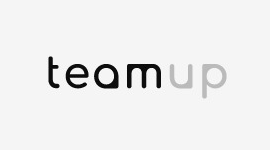
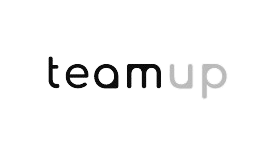
del files

diff --git a/src/components/ProfileCard.js b/src/components/ProfileCard.js
@@ -1,5 +1,5 @@
 import React, { useState, useEffect } from 'react';
-import { useParams } from 'react-router-dom';
+import { useParams, useHistory } from 'react-router-dom';
 import { useSelector, useDispatch } from 'react-redux';
 import ProfileImageWithDefault from './ProfileImageWithDefault';
 import { useTranslation } from 'react-i18next';
@@ -7,7 +7,7 @@ import Input from './Input';
 import { updateUser, deleteUser } from '../api/apiCalls';
 import { useApiProgress } from '../shared/ApiProgress';
 import ButtonWithProgress from './ButtonWithProgress';
-import { updateSuccess } from '../redux/authActions';
+import { updateSuccess, logoutSuccess } from '../redux/authActions';
 import Modal from './Modal';
 
 const ProfileCard = props => {
@@ -22,6 +22,7 @@ const ProfileCard = props => {
   const [validationErrors, setValidationErrors] = useState({});
   const [modalVisible, setModalVisible] = useState(false);
   const dispatch = useDispatch();
+  const history = useHistory();
 
   useEffect(() => {
     setUser(props.user);
@@ -100,6 +101,8 @@ const ProfileCard = props => {
   const onClickDeleteUser = async () => {
     await deleteUser(username);
     setModalVisible(false);
+    dispatch(logoutSuccess());
+    history.push('/');
   };
 
   const pendingApiCall = useApiProgress('put', '/api/1.0/users/' + username);

diff --git a/src/components/TeamView.js b/src/components/TeamView.js
@@ -37,7 +37,7 @@ const TeamView = props => {
       <div className="card p-1">
         <div className="d-flex">
           <ProfileImageWithDefault image={image} width="32" height="32" className="rounded-circle m-1" />
-          <div className="flex-fill m-auto pl-2">
+          <div className="flex-fill m-auto ps-2">
             <Link to={`/user/${username}`} className="text-dark">
               <h6 className="d-inline">
                 {displayName}@{username}
@@ -52,9 +52,9 @@ const TeamView = props => {
             </button>
           )}
         </div>
-        <div className="pl-5">{content}</div>
+        <div className="ps-5">{content}</div>
         {fileAttachment && (
-          <div className="pl-5">
+          <div className="ps-5">
             {fileAttachment.fileType.startsWith('image') && (
               <img className="img-fluid" src={'images/attachments/' + fileAttachment.name} alt={content} />
             )}

diff --git a/src/components/TopBar.js b/src/components/TopBar.js
@@ -85,7 +85,7 @@ const TopBar = props => {
     <div className="shadow-sm bg-light mb-2">
       <nav className="navbar navbar-light container navbar-expand">
         <Link className="navbar-brand" to="/">
-          <img src={logo} width="60" alt="teamup Logo" />
+          <img src={logo} width="100" alt="teamup Logo" />
           {t('Home')}
         </Link>
         {links}
